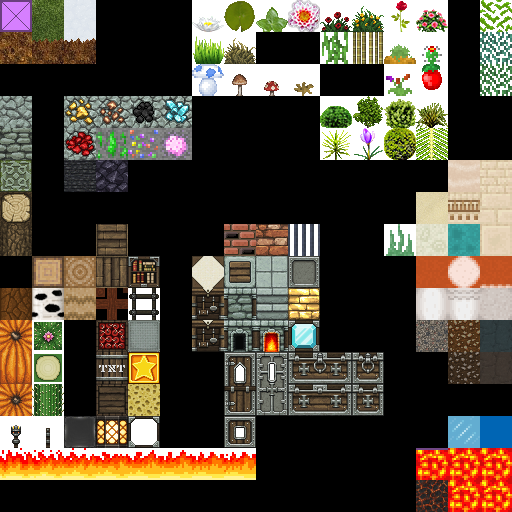
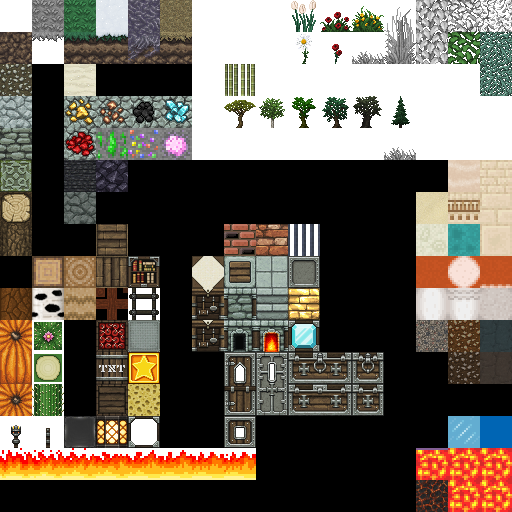
Update tile system to read tone tile from same source image

diff --git a/src/tiles.cpp b/src/tiles.cpp
@@ -16,8 +16,7 @@ namespace cppcraft
   static void
   parse_tile_database(tile_database& db, rapidjson::Value& obj)
   {
-    const std::string diffuse = obj["diffuse"].GetString();
-    const std::string tonemap = obj["tonemap"].GetString();
+    const std::string source_file = obj["source"].GetString();
 
     auto& data = obj["data"];
     for (auto itr = data.MemberBegin(); itr != data.MemberEnd(); ++itr)
@@ -26,15 +25,15 @@ namespace cppcraft
       const auto v = itr->value.GetArray();
       const int DIFF_X = v[0].GetInt();
       const int DIFF_Y = v[1].GetInt();
-      int TONE_X = DIFF_X;
-      int TONE_Y = DIFF_Y;
-      if  (v.Size() >= 4) {
+      int TONE_X = 0;
+      int TONE_Y = 0;
+      if (v.Size() >= 4) {
         TONE_X = v[2].GetInt();
         TONE_Y = v[3].GetInt();
       }
       // add tile
       db.add_tile(itr->name.GetString(),
-          diffuse, DIFF_X, DIFF_Y, tonemap, TONE_X, TONE_Y);
+          source_file, DIFF_X, DIFF_Y, TONE_X, TONE_Y);
     }
   }
 
@@ -43,13 +42,13 @@ namespace cppcraft
 		logger << Log::INFO << "* Initializing tiles" << Log::ENDL;
 
 		// normal tiles
-		tiles = tile_database(config.get("tiles.size", 32));
+		tiles = tile_database(config.get("tiles.size", 32), true);
     // big tiles (4x)
-    bigtiles = tile_database(tiles.tilesize() * TILES_PER_BIG_TILE);
+    bigtiles = tile_database(tiles.tilesize() * TILES_PER_BIG_TILE, true);
     // item tiles
-    items = tile_database(config.get("items.size", 32));
+    items = tile_database(config.get("items.size", 32), false);
     // particle tiles
-    particles = tile_database(config.get("partic.size", 32));
+    particles = tile_database(config.get("partic.size", 32), false);
 
 		// players
 		this->skinSize = config.get("players.size", 32);
@@ -92,8 +91,8 @@ namespace cppcraft
     this->unload_temp_store();
 	}
 
-  tile_database::tile_database(int tilesize)
-      : m_tile_size(tilesize)
+  tile_database::tile_database(int tilesize, bool tone)
+      : m_tile_size(tilesize), m_tone_enabled(tone)
   {
     m_diffuse.convert_to_tilesheet(tilesize);
     m_tonemap.convert_to_tilesheet(tilesize);
@@ -109,18 +108,18 @@ namespace cppcraft
   }
 
   void tile_database::add_tile(const std::string& name,
-                const std::string& f_diffuse,
+                const std::string& source_file,
                 const int DIFF_X, const int DIFF_Y,
-                const std::string& f_tonemap,
                 const int TONE_X, const int TONE_Y)
   {
-    const Bitmap& diff = tiledb.get_bitmap(f_diffuse);
+    const Bitmap& source_img = tiledb.get_bitmap(source_file);
+    // generate tile ID
     const int TILE_ID = m_diffuse.getTilesX();
-
-    m_diffuse.add_tile(diff, DIFF_X, DIFF_Y);
-    if (!f_tonemap.empty()) {
-      const Bitmap& tone = tiledb.get_bitmap(f_tonemap);
-      m_tonemap.add_tile(tone, TONE_X, TONE_Y);
+    // add to tile array
+    m_diffuse.add_tile(source_img, DIFF_X, DIFF_Y);
+    // if tonemap is enabled, use it always
+    if (m_tone_enabled) {
+      m_tonemap.add_tile(source_img, TONE_X, TONE_Y);
     }
 
     //printf("Tile %s has ID %d\n", name.c_str(), TILE_ID);

diff --git a/src/generator/blocks.cpp b/src/generator/blocks.cpp
@@ -214,9 +214,9 @@ namespace terragen
 			solid.setColorIndex(Biomes::CL_GRASS);
       solid.setMinimapColor(Biomes::CL_GRASS);
 			solid.getName = [] (const Block&) { return "Grass Block"; };
-      const short soil = tiledb.bigtiles("soil");
-      const short grass_top = tiledb.bigtiles("grass_top");
-      const short grass_side = tiledb.bigtiles("grass_side");
+      const short soil = tiledb.tiles("soil");
+      const short grass_top = tiledb.tiles("grass_top");
+      const short grass_side = tiledb.tiles("grass_side");
       solid.useTextureFunction(
 			[soil, grass_top, grass_side] (const Block&, uint8_t face)
 			{
@@ -225,7 +225,7 @@ namespace terragen
 				return soil; // bottom
 			});
 			solid.repeat_y = false;
-      solid.shader = RenderConst::TX_REPEAT;
+      solid.shader = RenderConst::TX_SOLID;
 			solid.getSound = [] (const Block&) { return "grass"; };
 			db.assign("grass_block", solid);
 		}
@@ -235,9 +235,9 @@ namespace terragen
 			solid.setColorIndex(Biomes::CL_GRASS);
       solid.setMinimapColor(Biomes::CL_GRASS);
 			solid.getName = [] (const Block&) { return "Grass Block w/Flowers"; };
-      const short soil = tiledb.bigtiles("soil");
-      const short grass_top = tiledb.bigtiles("grass_random");
-      const short grass_side = tiledb.bigtiles("grass_side");
+      const short soil = tiledb.tiles("soil");
+      const short grass_top = tiledb.tiles("grass_random");
+      const short grass_side = tiledb.tiles("grass_side");
       solid.useTextureFunction(
 			[soil, grass_top, grass_side] (const Block&, uint8_t face)
 			{
@@ -246,7 +246,7 @@ namespace terragen
 				return soil; // bottom
 			});
 			solid.repeat_y = false;
-      solid.shader = RenderConst::TX_REPEAT;
+      solid.shader = RenderConst::TX_SOLID;
 			solid.getSound = [] (const Block&) { return "grass"; };
 			db.assign("grass_random", solid);
 		}

diff --git a/src/tiles.hpp b/src/tiles.hpp
@@ -32,8 +32,9 @@ namespace cppcraft
     // add diffuse from @d and tonemap from @t
     // returns tile id
     void add_tile(const std::string& name,
-                  const std::string& d, int dx, int dy,
-                  const std::string& t, int tx, int ty);
+                  const std::string& d,
+                  int dx, int dy,
+                  int tx, int ty);
 
     const auto& diffuse() const { return m_diffuse; }
     const auto& tonemap() const { return m_tonemap; }
@@ -41,10 +42,11 @@ namespace cppcraft
     auto& diff_texture() noexcept { return m_diff_texture; }
     auto& tone_texture() noexcept { return m_tone_texture; }
 
-    tile_database(int);
+    tile_database(int tile_size, bool enable_tonemap);
     tile_database() {};
   private:
     int m_tile_size = 0;
+    bool m_tone_enabled = false;
     std::map<std::string, short> namedb;
     library::Bitmap m_diffuse;
     library::Bitmap m_tonemap;

diff --git a/src/generator/terrain/t_jungle.cpp b/src/generator/terrain/t_jungle.cpp
@@ -128,7 +128,7 @@ namespace terragen
 		terrains.add("jungle", "Jungle", Biome::biome_t{25.0f, 350.0f, 0.6f},
         getheight_jungle, getground_jungle, getnoise_jungle, process_jungle);
 
-    terrain.setFog(glm::vec4(0.4f, 0.8f, 0.4f, 0.7f), 24);
+    terrain.setFog(glm::vec4(0.4f, 0.8f, 0.4f, 0.7f), 160);
 		terrain.on_tick =
 		[] (double)
 		{

diff --git a/src/generator/terrain/t_snow.cpp b/src/generator/terrain/t_snow.cpp
@@ -115,7 +115,7 @@ namespace terragen
     SNOW_ID  = db::getb("snow");
     ICE_ID   = db::getb("ice");
 
-		terrain.setFog(glm::vec4(1.0f, 1.0f, 1.0f, 0.7f), 32);
+		terrain.setFog(glm::vec4(1.0f, 1.0f, 1.0f, 0.7f), 200);
     //terrain.music_name = "amb_winter";
 
 		// snow particle
